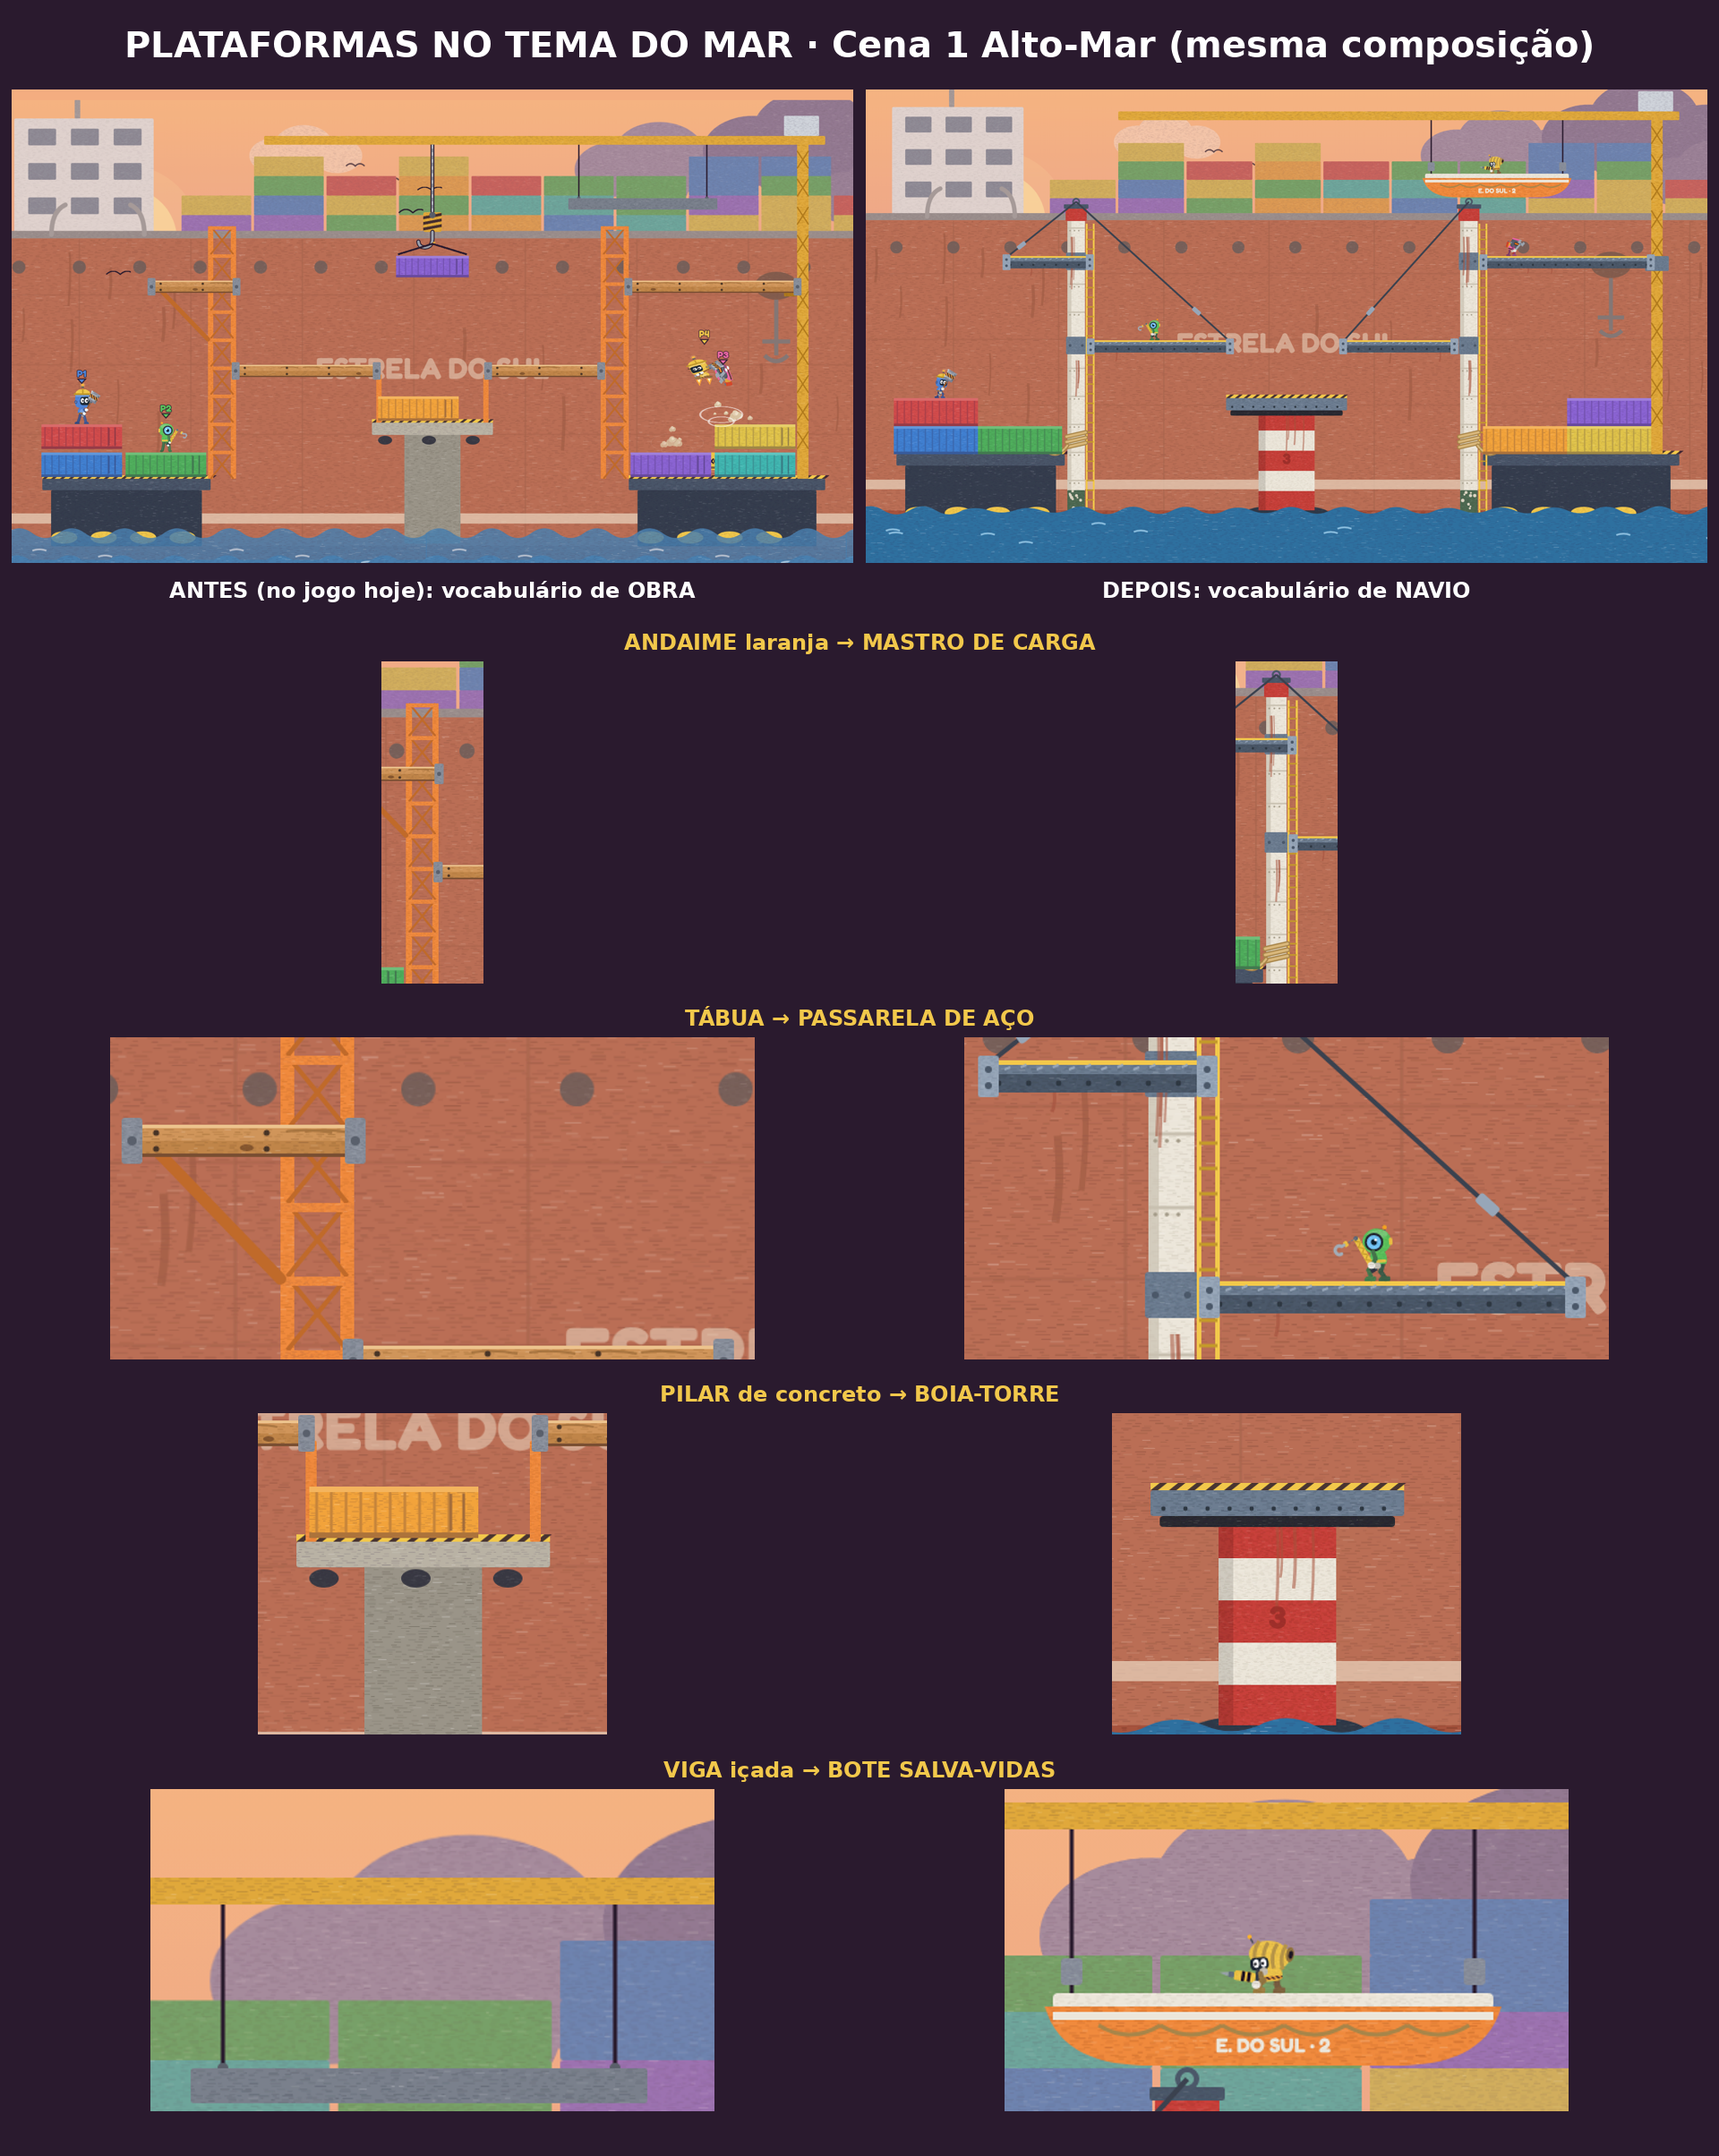
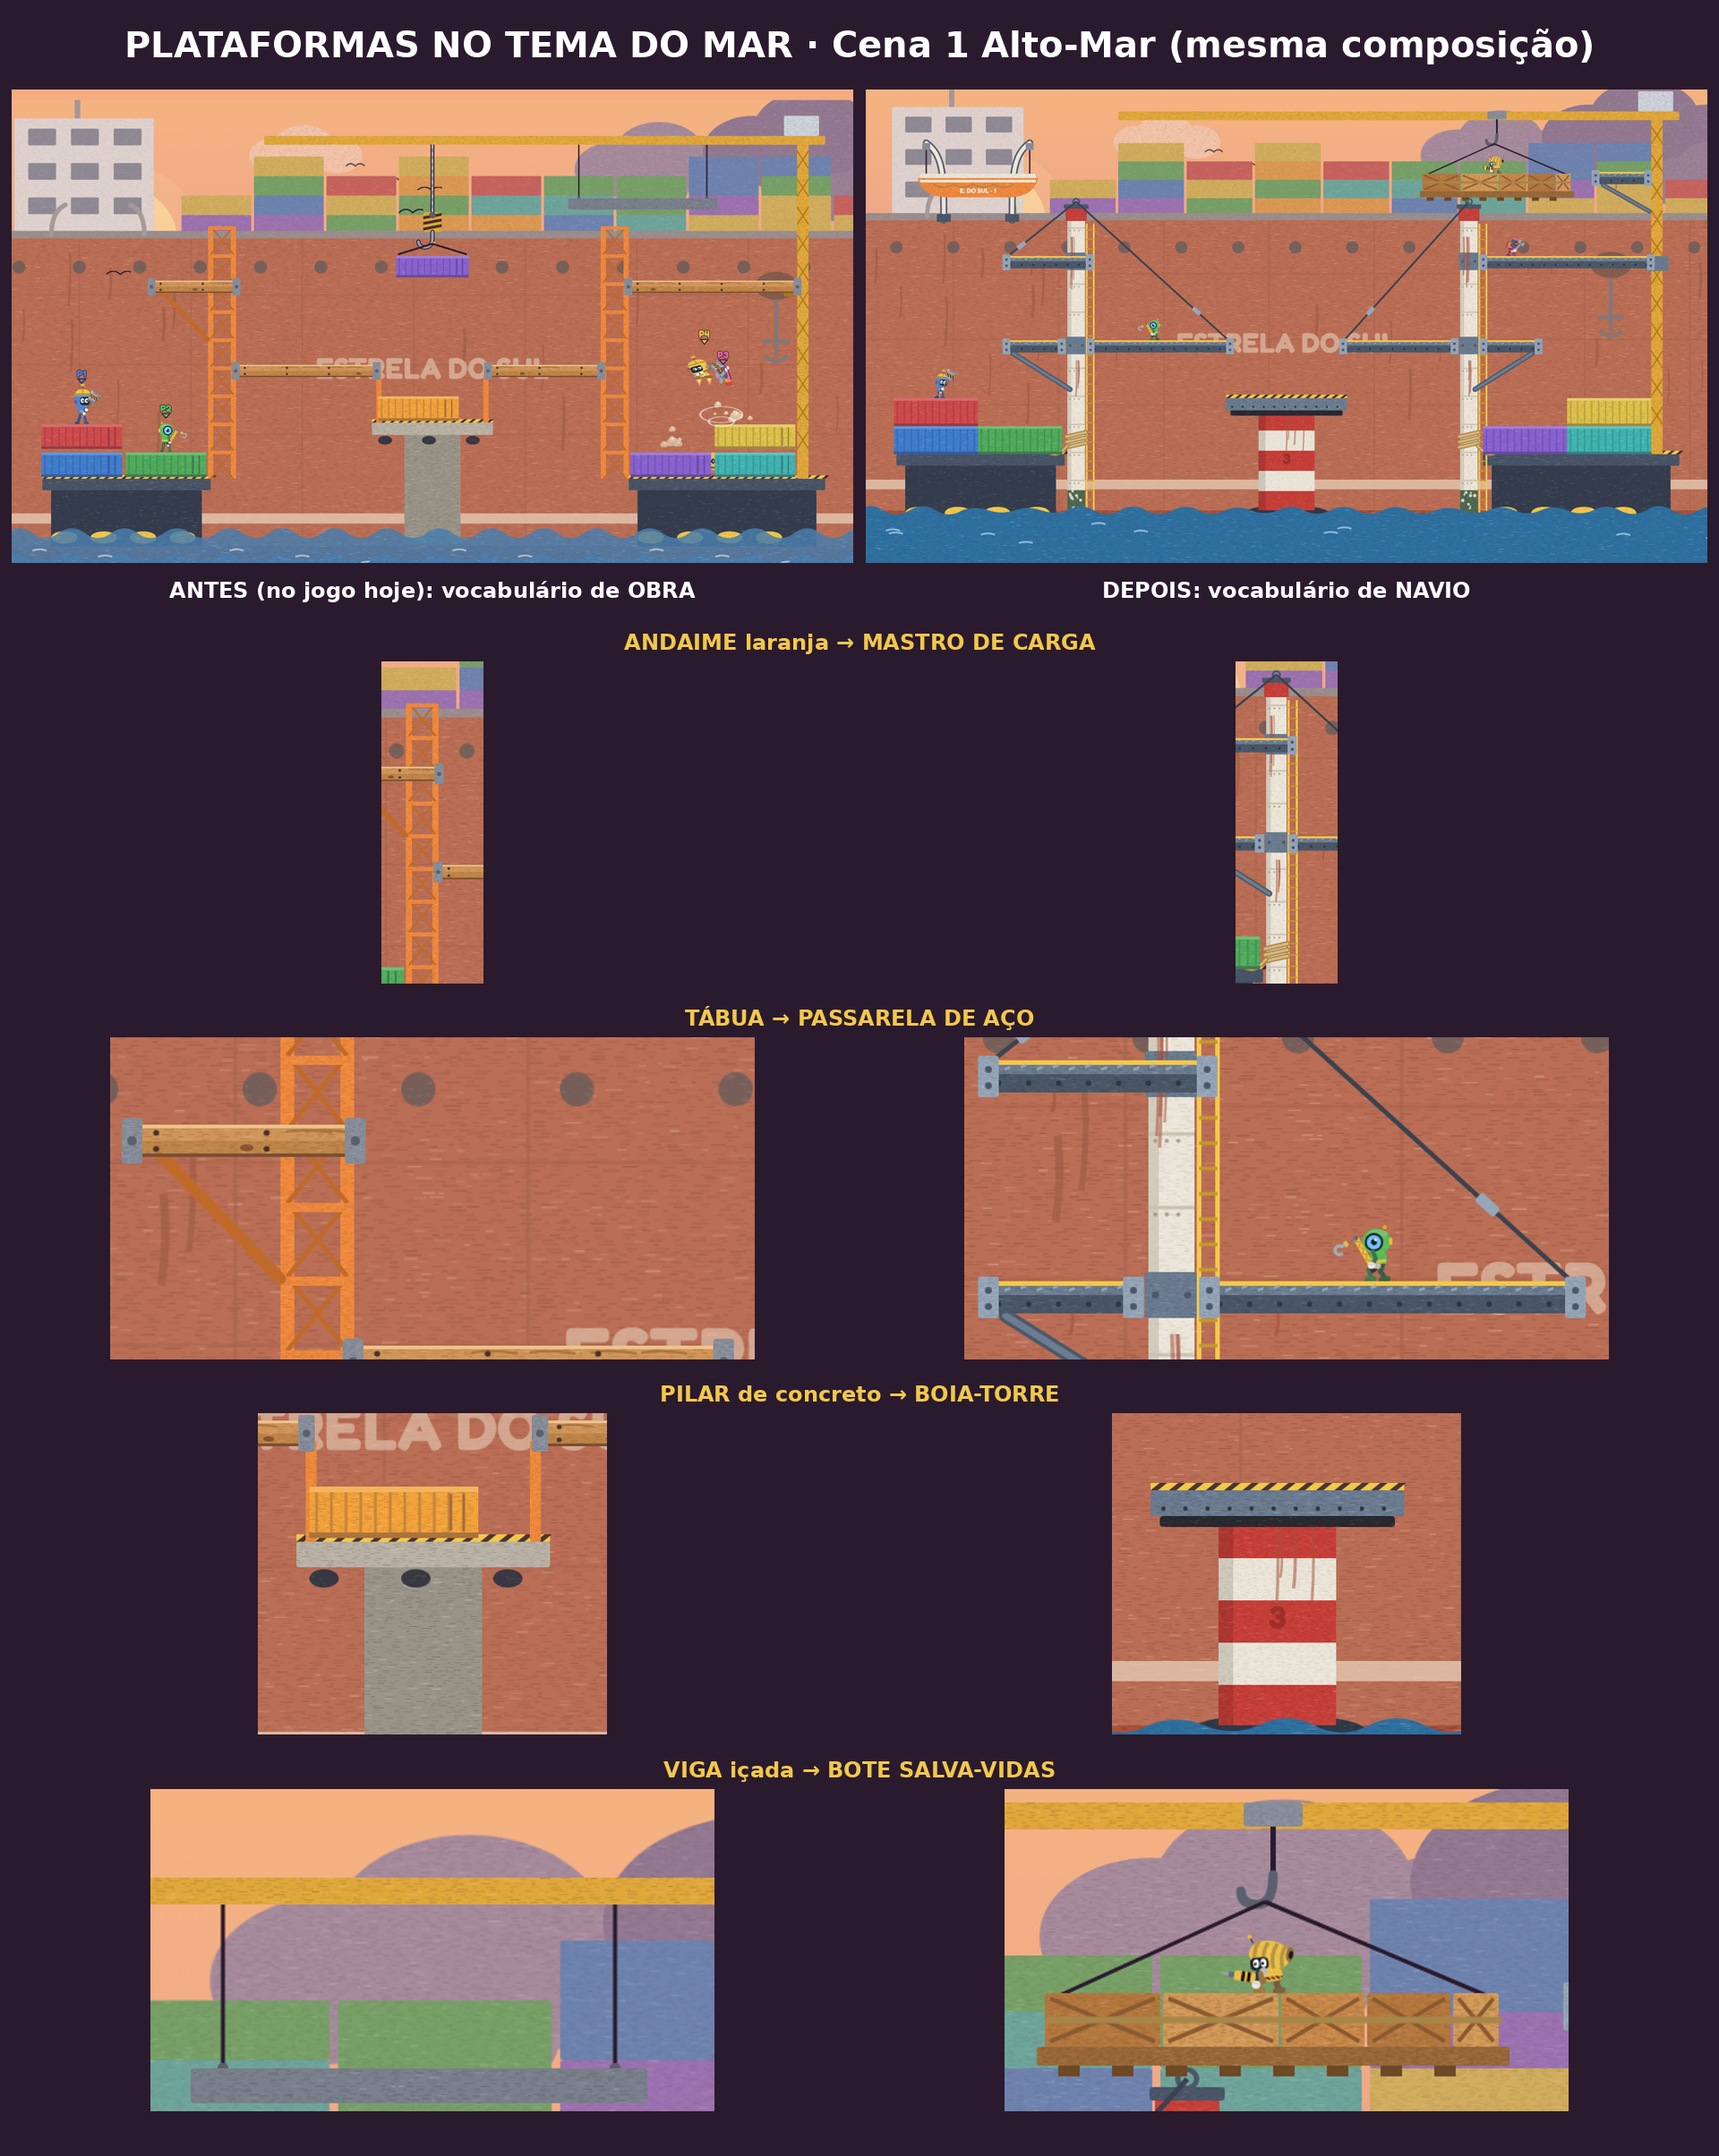
Fase 2 cena 1: prancha com mais plataformas (degraus nos postes, patamar da grua, bote nos turcos, carga içada)
Claude-Session: https://claude.ai/code/session_018QUPBQj4sLX3w64QQJCiVt

diff --git a/art/src/cenarios/f2_plataformas.py b/art/src/cenarios/f2_plataformas.py
@@ -182,6 +182,67 @@ def bote(x0, x1, y_topo, y_cabo):
     return o
 
 
+def turcos(x0, x1, y_topo):
+    """Par de TURCOS (braços de aço do navio) saindo da borda do convés do cargueiro e curvando por cima das pontas do bote."""
+    o = ""
+    for xa, s_ in ((x0 + 20, -1), (x1 - 20, 1)):
+        base = xa - s_ * 40
+        o += (f'<path d="M{base},298 C{base},200 {base},150 {xa},{y_topo - 70}" stroke="{ACO_D}" stroke-width="16" fill="none" stroke-linecap="round"/>'
+              f'<path d="M{base},298 C{base},200 {base},150 {xa},{y_topo - 70}" stroke="{BRANCO}" stroke-width="9" fill="none" stroke-linecap="round"/>')
+        o += R(base - 16, 284, 32, 18, ACO_D, 3, 0.6)                                    # sapata no convés do navio
+        o += R(xa - 9, y_topo - 70, 18, 16, "#8a909c", 3, 0.6)                          # moitão
+        o += f'<path d="M{xa},{y_topo - 54} V{y_topo}" stroke="{INK}" stroke-width="3"/>'  # tira (cabo) até a ponta do bote
+    return o
+
+
+def bote_turcos(x0, x1, y_topo):
+    """BOTE SALVA-VIDAS nos turcos do navio (QUEBRA; topo plano = plataforma)."""
+    w = x1 - x0
+    o = turcos(x0, x1, y_topo)
+    o += R(x0 + 6, y_topo, w - 12, 12, BRANCO, 4, 1.0, dark=BRANCO_D)
+    casco = f"M{x0},{y_topo + 10} L{x1},{y_topo + 10} C{x1 - 10},{y_topo + 44} {x1 - 36},{y_topo + 54} {x1 - 70},{y_topo + 54} L{x0 + 70},{y_topo + 54} C{x0 + 36},{y_topo + 54} {x0 + 10},{y_topo + 44} {x0},{y_topo + 10} Z"
+    o += fp.S(casco, LARANJA, (x0, y_topo + 8, x1, y_topo + 56), k=1.4, dark=LARANJA_D)
+    o += f'<rect x="{x0 + 6}" y="{y_topo + 14}" width="{w - 12}" height="6" fill="{BRANCO}"/>'
+    for k in range(int((w - 60) / 46)):
+        ax = x0 + 36 + k * 46
+        o += f'<path d="M{ax},{y_topo + 24} q23,14 46,0" stroke="{CORDA_D}" stroke-width="3" fill="none"/>'
+    o += f'<text x="{(x0 + x1) / 2}" y="{y_topo + 44}" font-family="Fredoka" font-weight="700" font-size="15" fill="{BRANCO}" text-anchor="middle">E. DO SUL · 1</text>'
+    return o
+
+
+def carga_icada(x0, x1, y_topo, y_lanca):
+    """CARGA IÇADA pela grua (QUEBRA; no lugar da viga): estrado de madeira com caixas e sacos amarrados, duas lingas até as
+    QUINAS do estrado subindo para UM gancho, e o cabo do gancho até o carrinho da lança. O topo das caixas é plano (pisa-se)."""
+    w = x1 - x0
+    cx = (x0 + x1) / 2
+    gy = y_topo - 70
+    o = f'<path d="M{cx},{y_lanca} V{gy - 18}" stroke="{INK}" stroke-width="4"/>'
+    o += R(cx - 22, y_lanca - 10, 44, 18, "#8a909c", 3, 0.6)                            # carrinho na lança
+    o += f'<path d="M{cx},{gy - 18} q0,22 -12,22 q-12,0 -12,-10" stroke="#5a606c" stroke-width="7" fill="none" stroke-linecap="round"/>'
+    o += f'<path d="M{cx - 6},{gy + 2} L{x0 + 6},{y_topo + 4} M{cx - 6},{gy + 2} L{x1 - 6},{y_topo + 4}" stroke="{INK}" stroke-width="3"/>'
+    rnd = random.Random(12)
+    x = x0
+    cores = ["#c98a4b", "#b5793e", "#d39b5a"]
+    while x < x1 - 30:                                                                   # caixas de madeira (topo alinhado)
+        cw = min(rnd.choice([72, 88, 64]), x1 - x)
+        o += R(x, y_topo, cw - 2, 40, cores[int(x) % 3], 2, 1.0, dark="#8a5a30")
+        o += f'<path d="M{x + 4},{y_topo + 4} L{x + cw - 6},{y_topo + 36} M{x + cw - 6},{y_topo + 4} L{x + 4},{y_topo + 36}" stroke="#8a5a30" stroke-width="3"/>'
+        x += cw
+    o += f'<path d="M{x0},{y_topo + 20} H{x1}" stroke="{CORDA_D}" stroke-width="5"/>'   # cinta de corda
+    o += R(x0 - 6, y_topo + 40, w + 12, 14, "#9a6a3a", 2, 0.8, dark="#6e4a28")          # estrado
+    for k in range(int(w / 40)):
+        o += f'<rect x="{x0 + 10 + k * 40}" y="{y_topo + 54}" width="16" height="8" fill="#6e4a28"/>'
+    return o
+
+
+def plataforma_grua(x0, x1, y):
+    """Patamar de manutenção preso na TORRE da grua (QUEBRA): chapa xadrez com mão-francesa até a torre."""
+    o = passarela(x0, y, x1 - x0, 7)
+    o += f'<path d="M{x1 - 4},{y + 90} L{x0 + 24},{y + 30}" stroke="{ACO_D}" stroke-width="10" stroke-linecap="round"/>'
+    o += f'<path d="M{x1 - 4},{y + 90} L{x0 + 24},{y + 30}" stroke="{ACO}" stroke-width="5" stroke-linecap="round"/>'
+    return o
+
+
 # ---------------------------------------------------------------- palco e peças da cena 1 (mesma composição de hoje)
 def e1_palco_mar():
     """Lógica de sustentação (pedido do usuário: "a composição dos elementos não faz sentido"): TUDO que fica em pé tem
@@ -202,6 +263,7 @@ def e1_palco_mar():
     o += sign(23 * T, 13 * T - 60, "BOTA-ABAIXO", 170)
     o += estai(L, yt - 20, 13 * T, 9 * T) + estai(Rr, yt - 20, 17 * T, 9 * T)            # pontas de dentro do nível 9
     o += estai(L, yt - 20, 5 * T, 6 * T)                                                  # ponta de fora do nível 6 (esq.)
+    o += console(L - 14, 11 * T - 20, 5 * T + 16, 9 * T + 26) + console(Rr + 14, 11 * T - 20, 24 * T - 16, 9 * T + 26)   # degraus novos do nível 9
     o += amarra(L, 13 * T - 46, -1) + amarra(Rr, 13 * T - 46, 1)
     return o
 
@@ -212,19 +274,27 @@ def pecas_mar():
         "p1_andaime_1": passarela(17 * T - 6, 9 * T - 4, 4 * T + 12, 2),
         "p1_andaime_2": passarela(5 * T - 6, 6 * T - 4, 3 * T + 12, 3),
         "p1_andaime_3": passarela(22 * T - 6, 6 * T - 4, 6 * T + 12, 4),
-        "p1_viga_0": bote(20 * T - 10, 25 * T + 10, 3 * T, 1 * T + 6),
+        "p1_andaime_4": passarela(5 * T - 6, 9 * T - 4, 2 * T + 12, 5),     # NOVO: degrau do nível 9 (esq.), console no poste
+        "p1_andaime_5": passarela(22 * T - 6, 9 * T - 4, 2 * T + 12, 6),    # NOVO: degrau do nível 9 (dir.)
+        "p1_andaime_6": plataforma_grua(26 * T - 6, 28 * T, 3 * T - 4),      # NOVO: patamar na torre da grua
+        "p1_viga_0": carga_icada(20 * T - 10, 25 * T + 10, 3 * T, 1 * T - 4),   # a carga que a grua está içando
+        "p1_viga_1": bote_turcos(2 * T - 10, 6 * T + 10, 3 * T),            # NOVO: bote salva-vidas nos turcos do navio
     }
+
+
+NOVAS = [(5 * T - 6, 9 * T - 4, 2 * T + 12, 40), (22 * T - 6, 9 * T - 4, 2 * T + 12, 40), (26 * T - 6, 3 * T - 4, 2 * T + 6, 40),
+         (2 * T - 10, 3 * T, 4 * T + 20, 60)]
 
 
 def conteineres():
     o = ""
-    cores = [0, 1, 2, 3, 4, 5, 6]
+    cores = [0, 1, 2, 4, 5, 6]   # mesmas cores de antes (o laranja era o da boia, removido)
     for i, (cx, cy, cw, chh) in enumerate([[1, 11, 3, 1], [1, 12, 3, 1], [4, 12, 3, 1], [22, 12, 3, 1], [25, 11, 3, 1], [25, 12, 3, 1]]):
         o += conteiner(cx * T, cy * T, cw * T, chh * T, CONT[cores[i] % 7])
     return o
 
 
-def cena_depois():
+def cena_depois(marcar=False):
     defs = fp.fonte() + rough(seed=31, scale=0.8, freq=0.05) + fp.grad("c1ceu", [(0, "#f7b27a"), (0.45, "#e8988a"), (1, "#6f6aa0")])
     body = fp.c1_ceu() + fp.c1_longe() + fp.c1_navio_fundo() + e1_palco_mar() + "".join(pecas_mar().values()) + conteineres()
     body += robot("marretao", "parado", el.COLORS[0], 2 * T + 40, 11 * T, s=0.62)
@@ -232,6 +302,10 @@ def cena_depois():
     body += robot("chave", "parado", el.COLORS[2], 23 * T, 6 * T - 4, s=0.62)
     body += robot("britadeira", "parado", el.COLORS[3], 22 * T + 30, 3 * T, s=0.62, flip=True)
     body += fp.ondas_frente(MAR1, "#2f6f9f", "#9fd0ec", 16, 2)
+    if marcar:
+        for (x, y, w, h) in NOVAS:
+            body += f'<rect x="{x - 8}" y="{y - 10}" width="{w + 16}" height="{h + 20}" rx="10" fill="none" stroke="#3fe07a" stroke-width="5" stroke-dasharray="14 8"/>'
+            body += fp.tag(x + w / 2, y - 28, "NOVA")
     return doc(W, H, f'<g filter="url(#rough)">{body}</g>', defs)
 
 
@@ -239,7 +313,9 @@ def main():
     os.makedirs(OUT, exist_ok=True)
     png = os.path.join(OUT, "plataformas_cena1_depois.png")
     queue(cena_depois(), os.path.join(HERE, "svg/fase2/plataformas_cena1_depois.svg"), png, W, H, 1)
-    print(render_all(), png)
+    png2 = os.path.join(OUT, "plataformas_cena1_novas.png")
+    queue(cena_depois(True), os.path.join(HERE, "svg/fase2/plataformas_cena1_novas.svg"), png2, W, H, 1)
+    print(render_all(), png, png2)
 
 
 if __name__ == "__main__":

diff --git a/docs/BASTAO.md b/docs/BASTAO.md
@@ -52,6 +52,9 @@ Este quadro é o que permite outro chat continuar EXATAMENTE de onde o anterior 
     - [x] plataformas: usuário respondeu "composição boa, mas o contexto visual não se encaixa no tema" → prancha
       `art/out/fase2/plataformas_cena1.png` (fonte `art/src/cenarios/f2_plataformas.py`, `--prancha`): andaime→mastro de carga,
       tábua→passarela de aço, pilar→boia-torre, viga→bote salva-vidas. v1 "melhorou muito mas a composição não faz sentido" → v2: postes cravados no mar, balsas amarradas, passarelas estaiadas, sem escoras na boia; usuário: "tira esse contêiner" da boia → removido do manifesto (cena 1: 11 peças) e da prancha — ENVIADA, aguardando aprovação
+    - [x] "agora vamos colocar mais plataformas" → `art/out/fase2/plataformas_cena1_novas.png`: +4 (degraus do nível 9 nos
+      dois postes com console, patamar na torre da grua, bote 1 nos turcos do navio); viga da grua vira CARGA IÇADA (gancho + 2 lingas).
+      No manifesto vai virar: andaimes += [5,9,2], [22,9,2], [26,3,2]; vigas += [2,3,4] — ENVIADA, aguardando aprovação
     - [ ] aprovada → levar ao jogo: `f2_jogo.py` (e1_palco ← `f2_plataformas.e1_palco_mar`, _pecas_e1 ← `pecas_mar`), regenerar,
       copiar para `game/assets/cargueiro/`, `--import`, captura; depois ver se Destroços/Atlântida têm o mesmo problema
   - [ ] 3. Cena 2a: prancha M4 maré, M5 boia, M6 rede, M10 tubarão → aprovação → jogo
